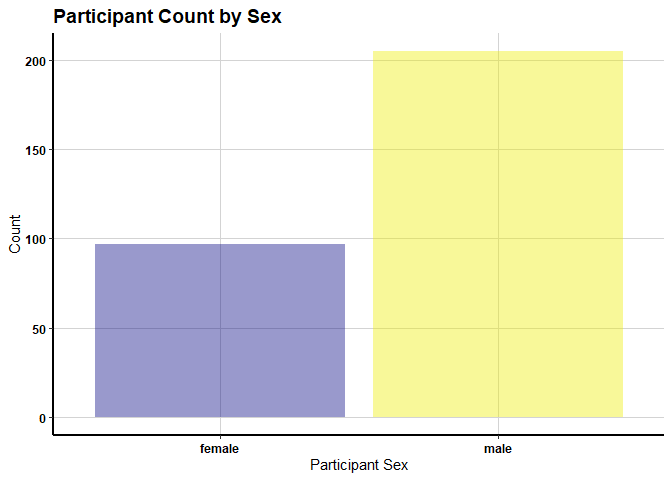
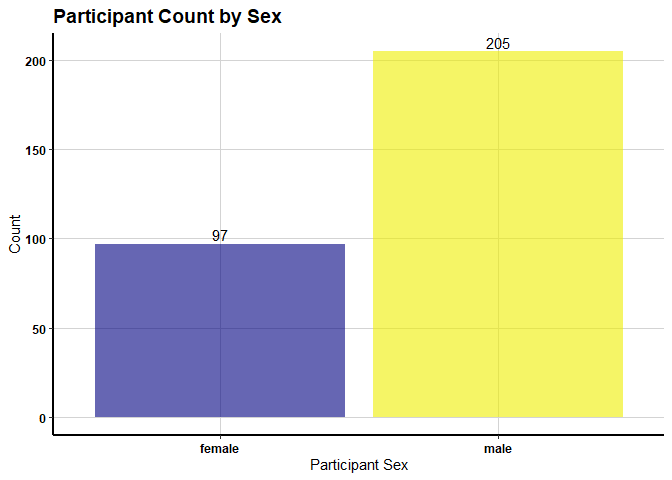
Update alphas in boxplots and histograms

diff --git a/README.md b/README.md
@@ -158,12 +158,6 @@ source("200_Boxplots.R", echo = TRUE)
     ## > chd <- data.frame(read.csv("./data/chd.csv", header = TRUE, 
     ## +     sep = ","))
     ## 
-    ## > boxplot(group1$age, group2$age, col = "CadetBlue", 
-    ## +     pch = 20, names = c("CHD absent", "CHD present"), ylab = "Participant age")
-
-![](README_files/figure-gfm/boxplots-1.png)<!-- -->
-
-    ## 
     ## > groupCHD <- group2
     ## 
     ## > groupCHD$outcome <- c(1)
@@ -180,7 +174,7 @@ source("200_Boxplots.R", echo = TRUE)
     ## > a <- ggplot(CHDgroup, aes(x = outcome, y = age, ))
     ## 
     ## > a + geom_point(size = 3) + geom_jitter(size = 2) + 
-    ## +     geom_boxplot(alpha = 0.4, fill = c("navy", "yellow2")) + 
+    ## +     geom_boxplot(alpha = 0.6, fill = c("navy", "yellow2")) + 
     ## +     labs(title = "Participant  ..." ... [TRUNCATED]
 
     ## Warning in grid.Call(C_stringMetric, as.graphicsAnnot(x$label)): font
@@ -228,7 +222,7 @@ source("200_Boxplots.R", echo = TRUE)
     ## Warning in grid.Call(C_textBounds, as.graphicsAnnot(x$label), x$x, x$y, :
     ## font family not found in Windows font database
 
-![](README_files/figure-gfm/boxplots-2.png)<!-- --> \#\# Create some
+![](README_files/figure-gfm/boxplots-1.png)<!-- --> \#\# Create some
 histograms and other stuff
 
 ``` r
@@ -246,7 +240,7 @@ source("205_Histograms.R", echo = TRUE)
     ## > b <- ggplot(CHDgroup, aes(x = age))
     ## 
     ## > b + geom_histogram(bins = 30, color = "black", fill = "navy", 
-    ## +     alpha = 0.4) + labs(title = "Participant Count by Age", y = "Count", 
+    ## +     alpha = 0.6) + labs(title = "Participant Count by Age", y = "Count", 
     ## +     x = .... [TRUNCATED]
 
     ## Warning in grid.Call(C_textBounds, as.graphicsAnnot(x$label), x$x, x$y, :
@@ -288,9 +282,20 @@ source("205_Histograms.R", echo = TRUE)
 ![](README_files/figure-gfm/histograms-1.png)<!-- -->
 
     ## 
-    ## > ggplot(CHDgroup, aes(sex)) + geom_bar(fill = c("navy", 
-    ## +     "yellow2"), alpha = 0.4) + labs(title = "Participant Count by Sex", 
-    ## +     y = "Count" .... [TRUNCATED]
+    ## > df <- CHDgroup %>% group_by(sex) %>% summarize(counts = n())
+    ## 
+    ## > df
+    ## # A tibble: 2 x 2
+    ##   sex    counts
+    ##   <fct>   <int>
+    ## 1 female     97
+    ## 2 male      205
+    ## 
+    ## > c <- ggplot(df, aes(x = sex, y = counts))
+    ## 
+    ## > c + geom_bar(stat = "identity", fill = c("navy", "yellow2"), 
+    ## +     alpha = 0.6) + geom_text(aes(label = counts), vjust = -0.3) + 
+    ## +     labs(title  .... [TRUNCATED]
 
     ## Warning in grid.Call(C_textBounds, as.graphicsAnnot(x$label), x$x, x$y, :
     ## font family not found in Windows font database
@@ -331,60 +336,6 @@ source("205_Histograms.R", echo = TRUE)
 ![](README_files/figure-gfm/histograms-2.png)<!-- -->
 
     ## 
-    ## > df <- CHDgroup %>% group_by(sex) %>% summarize(counts = n())
-    ## 
-    ## > df
-    ## # A tibble: 2 x 2
-    ##   sex    counts
-    ##   <fct>   <int>
-    ## 1 female     97
-    ## 2 male      205
-    ## 
-    ## > c <- ggplot(df, aes(x = sex, y = counts))
-    ## 
-    ## > c + geom_bar(stat = "identity", fill = c("navy", "yellow2"), 
-    ## +     alpha = 0.7) + geom_text(aes(label = counts), vjust = -0.3) + 
-    ## +     labs(title  .... [TRUNCATED]
-
-    ## Warning in grid.Call(C_textBounds, as.graphicsAnnot(x$label), x$x, x$y, :
-    ## font family not found in Windows font database
-    
-    ## Warning in grid.Call(C_textBounds, as.graphicsAnnot(x$label), x$x, x$y, :
-    ## font family not found in Windows font database
-    
-    ## Warning in grid.Call(C_textBounds, as.graphicsAnnot(x$label), x$x, x$y, :
-    ## font family not found in Windows font database
-    
-    ## Warning in grid.Call(C_textBounds, as.graphicsAnnot(x$label), x$x, x$y, :
-    ## font family not found in Windows font database
-    
-    ## Warning in grid.Call(C_textBounds, as.graphicsAnnot(x$label), x$x, x$y, :
-    ## font family not found in Windows font database
-    
-    ## Warning in grid.Call(C_textBounds, as.graphicsAnnot(x$label), x$x, x$y, :
-    ## font family not found in Windows font database
-    
-    ## Warning in grid.Call(C_textBounds, as.graphicsAnnot(x$label), x$x, x$y, :
-    ## font family not found in Windows font database
-    
-    ## Warning in grid.Call(C_textBounds, as.graphicsAnnot(x$label), x$x, x$y, :
-    ## font family not found in Windows font database
-    
-    ## Warning in grid.Call(C_textBounds, as.graphicsAnnot(x$label), x$x, x$y, :
-    ## font family not found in Windows font database
-    
-    ## Warning in grid.Call(C_textBounds, as.graphicsAnnot(x$label), x$x, x$y, :
-    ## font family not found in Windows font database
-
-    ## Warning in grid.Call.graphics(C_text, as.graphicsAnnot(x$label), x$x,
-    ## x$y, : font family not found in Windows font database
-
-    ## Warning in grid.Call(C_textBounds, as.graphicsAnnot(x$label), x$x, x$y, :
-    ## font family not found in Windows font database
-
-![](README_files/figure-gfm/histograms-3.png)<!-- -->
-
-    ## 
     ## > df <- CHDgroup
     ## 
     ## > df$sex <- factor(df$sex, levels = levels(df$sex)[order(levels(df$sex), 
@@ -393,70 +344,64 @@ source("205_Histograms.R", echo = TRUE)
     ## > e <- ggplot(df, aes(x = age))
     ## 
     ## > e + geom_histogram(bins = 30, aes(color = sex, fill = sex), 
-    ## +     alpha = 0.4, position = "identity") + scale_color_manual(values = c("navy", 
+    ## +     alpha = 0.6, position = "identity") + scale_color_manual(values = c("navy", 
     ## +    .... [TRUNCATED]
 
+![](README_files/figure-gfm/histograms-3.png)<!-- -->
+
+    ## 
+    ## > e + geom_histogram(bins = 30, aes(color = sex, fill = sex), 
+    ## +     alpha = 0.6, position = "identity") + labs(title = "Participant Count by Sex and  ..." ... [TRUNCATED]
+
+    ## Warning in grid.Call(C_stringMetric, as.graphicsAnnot(x$label)): font
+    ## family not found in Windows font database
+    
+    ## Warning in grid.Call(C_stringMetric, as.graphicsAnnot(x$label)): font
+    ## family not found in Windows font database
+    
+    ## Warning in grid.Call(C_stringMetric, as.graphicsAnnot(x$label)): font
+    ## family not found in Windows font database
+
+    ## Warning in grid.Call(C_stringMetric, as.graphicsAnnot(x$label)): font
+    ## family not found in Windows font database
+
+    ## Warning in grid.Call(C_textBounds, as.graphicsAnnot(x$label), x$x, x$y, :
+    ## font family not found in Windows font database
+    
+    ## Warning in grid.Call(C_textBounds, as.graphicsAnnot(x$label), x$x, x$y, :
+    ## font family not found in Windows font database
+    
+    ## Warning in grid.Call(C_textBounds, as.graphicsAnnot(x$label), x$x, x$y, :
+    ## font family not found in Windows font database
+    
+    ## Warning in grid.Call(C_textBounds, as.graphicsAnnot(x$label), x$x, x$y, :
+    ## font family not found in Windows font database
+    
+    ## Warning in grid.Call(C_textBounds, as.graphicsAnnot(x$label), x$x, x$y, :
+    ## font family not found in Windows font database
+
+    ## Warning in grid.Call.graphics(C_text, as.graphicsAnnot(x$label), x$x,
+    ## x$y, : font family not found in Windows font database
+
+    ## Warning in grid.Call(C_textBounds, as.graphicsAnnot(x$label), x$x, x$y, :
+    ## font family not found in Windows font database
+    
+    ## Warning in grid.Call(C_textBounds, as.graphicsAnnot(x$label), x$x, x$y, :
+    ## font family not found in Windows font database
+
+    ## Warning in grid.Call.graphics(C_text, as.graphicsAnnot(x$label), x$x,
+    ## x$y, : font family not found in Windows font database
+
+    ## Warning in grid.Call(C_textBounds, as.graphicsAnnot(x$label), x$x, x$y, :
+    ## font family not found in Windows font database
+    
+    ## Warning in grid.Call(C_textBounds, as.graphicsAnnot(x$label), x$x, x$y, :
+    ## font family not found in Windows font database
+    
+    ## Warning in grid.Call(C_textBounds, as.graphicsAnnot(x$label), x$x, x$y, :
+    ## font family not found in Windows font database
+
 ![](README_files/figure-gfm/histograms-4.png)<!-- -->
-
-    ## 
-    ## > e + geom_histogram(bins = 30, aes(color = sex, fill = sex), 
-    ## +     alpha = 0.4, position = "identity") + labs(title = "Participant Count by Sex and  ..." ... [TRUNCATED]
-
-![](README_files/figure-gfm/histograms-5.png)<!-- -->
-
-    ## 
-    ## > e + geom_histogram(bins = 30, aes(color = sex, fill = sex), 
-    ## +     alpha = 0.4, position = "identity") + labs(title = "Participant Count by Sex and  ..." ... [TRUNCATED]
-
-    ## Warning in grid.Call(C_stringMetric, as.graphicsAnnot(x$label)): font
-    ## family not found in Windows font database
-    
-    ## Warning in grid.Call(C_stringMetric, as.graphicsAnnot(x$label)): font
-    ## family not found in Windows font database
-    
-    ## Warning in grid.Call(C_stringMetric, as.graphicsAnnot(x$label)): font
-    ## family not found in Windows font database
-
-    ## Warning in grid.Call(C_stringMetric, as.graphicsAnnot(x$label)): font
-    ## family not found in Windows font database
-
-    ## Warning in grid.Call(C_textBounds, as.graphicsAnnot(x$label), x$x, x$y, :
-    ## font family not found in Windows font database
-    
-    ## Warning in grid.Call(C_textBounds, as.graphicsAnnot(x$label), x$x, x$y, :
-    ## font family not found in Windows font database
-    
-    ## Warning in grid.Call(C_textBounds, as.graphicsAnnot(x$label), x$x, x$y, :
-    ## font family not found in Windows font database
-    
-    ## Warning in grid.Call(C_textBounds, as.graphicsAnnot(x$label), x$x, x$y, :
-    ## font family not found in Windows font database
-    
-    ## Warning in grid.Call(C_textBounds, as.graphicsAnnot(x$label), x$x, x$y, :
-    ## font family not found in Windows font database
-
-    ## Warning in grid.Call.graphics(C_text, as.graphicsAnnot(x$label), x$x,
-    ## x$y, : font family not found in Windows font database
-
-    ## Warning in grid.Call(C_textBounds, as.graphicsAnnot(x$label), x$x, x$y, :
-    ## font family not found in Windows font database
-    
-    ## Warning in grid.Call(C_textBounds, as.graphicsAnnot(x$label), x$x, x$y, :
-    ## font family not found in Windows font database
-
-    ## Warning in grid.Call.graphics(C_text, as.graphicsAnnot(x$label), x$x,
-    ## x$y, : font family not found in Windows font database
-
-    ## Warning in grid.Call(C_textBounds, as.graphicsAnnot(x$label), x$x, x$y, :
-    ## font family not found in Windows font database
-    
-    ## Warning in grid.Call(C_textBounds, as.graphicsAnnot(x$label), x$x, x$y, :
-    ## font family not found in Windows font database
-    
-    ## Warning in grid.Call(C_textBounds, as.graphicsAnnot(x$label), x$x, x$y, :
-    ## font family not found in Windows font database
-
-![](README_files/figure-gfm/histograms-6.png)<!-- -->
 
 ## Publication Request:
 
